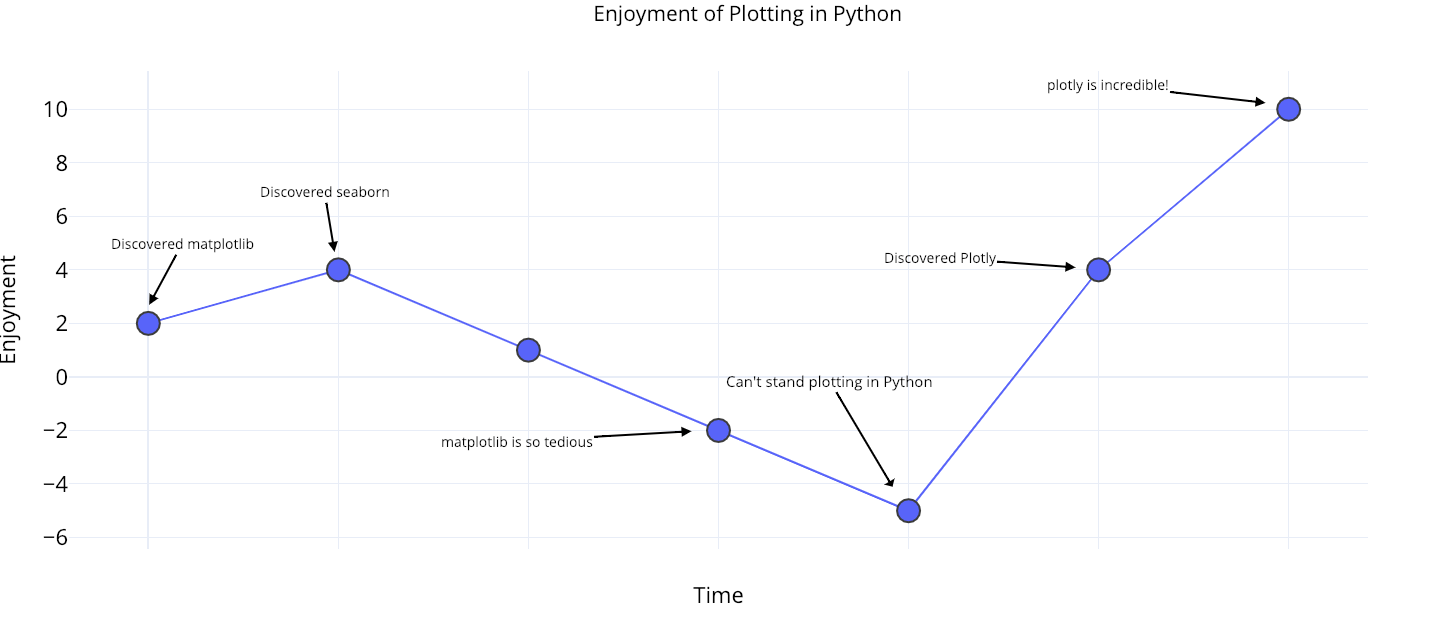
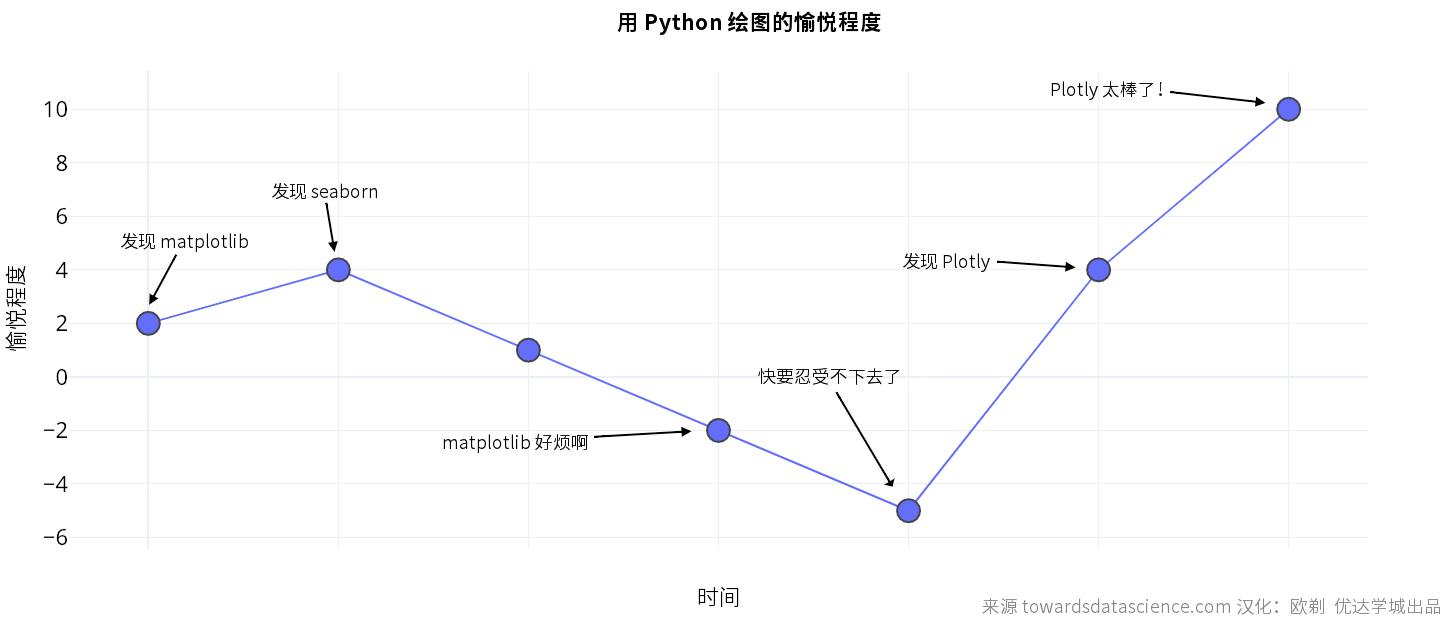
edit draft

diff --git a/_drafts/the-next-level-of-data-visualization-in-python.md b/_drafts/the-next-level-of-data-visualization-in-python.md
@@ -11,15 +11,9 @@ from: https://towardsdatascience.com/the-next-level-of-data-visualization-in-pyt
 []
 图片来源：pexels.com
 
-The sunk-cost fallacy is one of many [harmful cognitive biases](https://en.wikipedia.org/wiki/Thinking,_Fast_and_Slow#Heuristics_and_biases) to which humans fall prey. It refers to our tendency to continue to devote time and resources to a lost cause because we have already spent — sunk — so much time in the pursuit. The sunk-cost fallacy applies to staying in bad jobs longer than we should, slaving away at a project even when it’s clear it won’t work, and yes, continuing to use a tedious, outdated plotting library — matplotlib — when more efficient, interactive, and better-looking alternatives exist.
-
 “沉没成本谬误”是人们常犯的几种认知偏差之一。它指的是人们倾向于继续把时间和金钱投入一件已经注定要失败的事情，只因为他们在这件事上已经投入了（“沉没”）太多的成本。沉没成本谬误同样适用于在不好的职位上待了比正常更长的时间，在一个明显不可能的项目上埋头苦干，以及（你猜的没错）继续用一个陈旧、枯燥的绘图库——matplotlib——即使当更高效、更美观、可互动性更好的替代品已经出现的时候。
 
-Over the past few months, I’ve realized the only reason I use `matplotlib` is the hundreds of hours I’ve sunk into learning the convoluted syntax. This complication leads to hours of frustration on StackOverflow figuring out how to *format dates* or *add a second y-axis*. Fortunately, this is a great time for Python plotting, and after exploring the options, a clear winner — in terms of ease-of-use, documentation, and functionality — is the [plotly Python library](https://plot.ly/python/). In this article, we’ll dive right into `plotly`, learning how to make better plots in less time — often with one line of code.
-
 在过去的几个月里，我意识到我还守着 `matplotlib` 的唯一原因，不过就是因为我已经“沉没"在里面的几百个小时的时间成本——这都是为了学会它那复杂的语法。这也导致我花费了不知多少个深夜，在 StackOverflow 上搜索如何**格式化日期**或**增加第二个Y轴**。幸运的是，随着数据分析技术的不断进步和开源软件的不断发展，如今我们有了更多更好的选择。纵观这些选项，很容易就能发现一款易于使用、文档健全、功能强大的开源 Python 绘图库—— [Plotly](https://plot.ly/python/)。在今天的文章里，请跟我们一起深入体验 `plotly`，了解它如何用超简单的（甚至只要一行！）代码，绘制出更棒的图表。
-
-All of the code for this article is [available on GitHub](https://github.com/WillKoehrsen/Data-Analysis/blob/master/plotly/Plotly%20Whirlwind%20Introduction.ipynb). The charts are all interactive and can be viewed on **NBViewer**.
 
 本文中所有代码都已经在 Github 上开源，所有的图表都是可交互的，请使用**NBViewer**查看 。
 
@@ -28,18 +22,11 @@ Github 源代码地址： https://github.com/WillKoehrsen/Data-Analysis/blob/mas
 []
 plotly 绘制的范例图表。图片来源：plot.ly
 
-## Plotly Brief Overview
 ## Plotly 概述
-
-The `plotly` Python package is an open-source library built on **plotly.js** which in turn is built on **d3.js**. We’ll be using a wrapper on plotly called `cufflinks` designed to work with Pandas dataframes. So, our entire stack is cufflinks > plotly > plotly.js > d3.js which means we get the efficiency of coding in Python with the incredible interactive graphics capabilities of d3.
 
 `plotly` 的 Python 软件包是一个开源的代码库，它基于 **plot.js**，而后者基于 **d3.js**。我们实际使用的则是一个对 plotly 进行封装的库，名叫 `cufflinks`，它能让你更方便地使用 plotly 和 Pandas 数据表协同工作。
 
-(Plotly itself is a graphics company with several products and open-source tools. The Python library is free to use, and we can make unlimited charts in offline mode plus up to 25 charts in online mode to share with the world.)
-
 （注：Plotly 本身是一个拥有多个不同产品和开源工具集的可视化技术公司。Plotly 的 Python 库是可以免费使用的，在离线模式可以创建数量不限的图表，在线模式因为用到了 Plotly 的共享服务，只能生成并分享 25 张图表。）
-
-All the work in this article was done in a Jupyter Notebook with **plotly + cufflinks** running in offline mode. After installing plotly and cufflinks with `pip install cufflinks plotly` import the following to run in Jupyter:
 
 本文中的所有可视化图表都是在 Jupyter Notebook 中使用离线模式的 plotly + cufflinks 库完成的。在使用  `pip install cufflinks plotly`  完成安装后，你可以用下面这样的代码在 Jupyter 里完成导入：
 
@@ -54,10 +41,7 @@ cufflinks.go_offline(connected=True)
 init_notebook_mode(connected=True)
 ```
 
-## Single Variable Distributions: Histograms and Boxplots
 ## 单变量分布：柱状图和箱形图
-
-Single variable — univariate — plots are a standard way to start an analysis and the histogram is a go-to plot (although it has some issues) for graphing a distribution. Here, using my Medium article statistics (you can see how to get your own stats here or use mine [here](https://github.com/WillKoehrsen/Data-Analysis/tree/master/medium)) let’s make an interactive histogram of the number of claps for articles ( `df` is a standard Pandas dataframe):
 
 单变量分析图往往是开始数据分析时的标准做法，而柱状图基本上算是单变量分布分析时必备的图表之一（虽然它还有一些不足）。
 
@@ -73,11 +57,7 @@ df['claps'].iplot(kind='hist',
 []
 使用 plotly+cufflinks 创建的交互式柱状图
 
-For those used to `matplotlib`, all we have to do is add one more letter ( `iplot` instead of `plot`) and we get a much better-looking and interactive chart! We can click on the data to get more details, zoom into sections of the plot, and as we’ll see later, select different categories to highlight.
-
 对于已经习惯 `matplotlib` 的同学，你们只需要多打一个字母（把 `.plot` 改成 `.iplot` ），就能获得看起来更加美观的交互式图表！点击图片上的元素就能显示出详细信息、随意缩放，还带有（我们接下来会提到的）高亮筛选某些部分等超棒功能。
-
-If we want to plot overlaid histograms, that’s just as simple:
 
 如果你想绘制堆叠柱状图，也只需要这样：
 
@@ -93,12 +73,10 @@ df[['time_started', 'time_published']].iplot(
 
 []
 
-With a little bit of `pandas` manipulation, we can do a barplot:
-
 对 `pandas` 数据表进行简单的处理，并生成条形图：
 
 ```python
-# Resample to monthly frequency and plot 
+# 按照月份进行重采样，再绘图 
 df2 = df[['view','reads','published_date']].\
          set_index('published_date').\
          resample('M').mean()
@@ -108,9 +86,7 @@ df2.iplot(kind='bar', xTitle='Date', yTitle='Average',
 
 []
 
-as we saw, **we can combine the power of pandas with plotly + cufflinks**. For a boxplot of the fans per story by publication, we use a `pivot` and then plot:
-
-就像上面展示的那样，**我们可以将 plotly + cufflinks 和 pandas 的能力整合在一起**。比如，我们可以先用 `pivot` 进行数据透视表分析，然后再生成条形图。
+就像上面展示的那样，**我们可以将 plotly + cufflinks 和 pandas 的能力整合在一起**。比如，我们可以先用 `.pivot()` 进行数据透视表分析，然后再生成条形图。
 
 比如统计不同发表渠道中，每篇文章带来的新增粉丝数：
 
@@ -123,21 +99,13 @@ df.pivot(columns='publication', values='fans').iplot(
 
 []
 
-The benefits of interactivity are that we can explore and subset the data as we like. There’s a lot of information in a boxplot, and without the ability to see the numbers, we’ll miss most of it!
-
 交互式图表带来的好处是，我们可以随意探索数据、拆分子项进行分析。箱型图能提供大量的信息，但如果你看不到具体数值，你很可能会错过其中的一大部分！
 
-## Scatterplots
 ## 散点图
-
-The scatterplot is the heart of most analyses. It allows us to see the evolution of a variable over time or the relationship between two (or more) variables.
 
 散点图是大多数分析的核心内容，它能让我们看出一个变量随着时间推移的变化情况，或是两个（或多个）变量之间的关系变化情况。
 
-### Time-Series
 ### 时间序列分析
-
-A considerable portion of real-world data has a time element. Luckily, plotly + cufflinks was designed with time-series visualizations in mind. Let’s make a dataframe of my TDS articles and look at how the trends have changed.
 
 在现实世界中，相当部分的数据都带有时间元素。幸运的是，plotly + cufflinks 天生就带有支持时间序列可视化分析的功能。
 
@@ -164,20 +132,13 @@ tds[['fans', 'word_count', 'title']].iplot(
 
 []
 
-Here we are doing quite a few different things all in one line:
-
 在上图中，我们用一行代码完成了几件事情：
 
-* Getting a nicely formatted time-series x-axis automatically
 * 自动生成美观的时间序列 X 轴
-* Adding a secondary y-axis because our variables have different ranges
 * 增加第二条 Y 轴，因为两个变量的范围并不一致
-* Adding in the title of the articles as hover information
 * 把文章标题放在鼠标悬停时显示的标签中
   
-For more information, we can also add in text annotations quite easily:
-
-如果想要更多数据，可以简单地添加文本注释：
+为了显示更多数据，我们可以方便地添加文本注释：
 
 ```python
 tds_monthly_totals.iplot(
@@ -191,10 +152,8 @@ tds_monthly_totals.iplot(
 ```
 
 []
-Scatterplot with annotations
 带有文本注释的散点图
 
-For a two-variable scatter plot colored by a third categorical variable we use:
 下面的代码中，我们将一个双变量散点图按第三个分类变量进行着色：
 
 ```python
@@ -210,9 +169,7 @@ df.iplot(
 
 []
 
-Let’s get a little more sophisticated by using a log axis — specified as a plotly layout — (see the [Plotly documentation](https://plot.ly/python/reference/) for the layout specifics) and sizing the bubbles by a numeric variable:
-
-接下来我们要玩点复杂的：对数坐标轴。我们通过指定 plotly 的布局（layout）参数来实现这一点（关于不同的布局，请参考官方文档 https://plot.ly/python/reference/ ），同时我们把点的 size 和一个数值变量 `read_ratio` （阅读比例）绑定，比例越大，泡泡的尺寸也越大。
+接下来我们要玩点复杂的：对数坐标轴。我们通过指定 plotly 的布局（layout）参数来实现这一点（关于不同的布局，请参考官方文档 https://plot.ly/python/reference/ ），同时我们把点的尺寸（size参数）和一个数值变量 `read_ratio` （阅读比例）绑定，数字悦达，泡泡的尺寸也越大。
 
 ```python
 tds.iplot(
@@ -230,13 +187,9 @@ tds.iplot(
 
 []
 
-With a little more work (see notebook for details), we can even put four variables ([this is not advised](https://serialmentor.com/dataviz/aesthetic-mapping.html)) on one graph!
-
-如果想要更复杂一些（详见我放在 Github 的源代码），我们甚至可以在一张图里塞进 4 个变量！（并不推荐你们这么做）
+如果想要更复杂一些（详见我放在 Github 的源代码），我们甚至可以在一张图里塞进 4 个变量！（然而并不推荐你们真的这么搞）
 
 []
-
-As before, we can combine pandas with plotly+cufflinks for useful plots:
 
 和前面一样，我们可以将 pandas 和 plotly+cufflinks 结合起来，实现许多有用的图表：
 
@@ -256,20 +209,13 @@ df.pivot_table(
 
 []
 
-See the notebook or the documentation for more examples of added functionality. We can add in text annotations, reference lines, and best-fit lines to our plots with a single line of code, and still with all the interaction.
-
 建议你查看官方文档，或者我的源代码，里面有更多的范例和函数实例。只需要简单的一两行代码，就可以为你的图表加上文字注释，辅助线，最佳拟合线等有用的元素，并且保持原有的各种交互式功能。
 
-## Advanced Plots
 ## 高级绘图功能
-Now we’ll get into a few plots that you probably won’t use all that often, but which can be quite impressive. We’ll use the plotly `figure_factory`, to keep even these incredible plots to one line.
 
 接下来，我们要详细介绍几种特殊的图表，平时你可能并不会很经常用到它们，但我保证只要你用好了它们，一定能让人刮目相看。我们要用到 plotly 的 `figure_factory` 模块，只需要一行代码，就能生成超棒的图表！ 
 
-### Scatter Matrix
 ### 散点图矩阵
-
-When we want to explore relationships among many variables, a scattermatrix (also called a **splom**) is a great option:
 
 假如我们要探索许多不同变量之间的关系，散点图矩阵（也被称为SPLOM）就是个很棒的选择：
 
@@ -284,14 +230,10 @@ figure = ff.create_scatterplotmatrix(
 
 []
 
-Even this plot is completely interactive allowing us to explore the data.
-
 即使是这样复杂的图形，也是完全可交互的，让我们能更详尽地对数据进行探索。
 
-### Correlation Heatmap
 ### 关系热图
 
-To visualize the correlations between numeric variables, we calculate the correlations and then make an annotated heatmap:
 为了体现多个数值变量间的关系，我们可以计算它们的相关性，然后用带标注热度图的形式进行可视化：
 
 ```python
@@ -308,52 +250,50 @@ figure = ff.create_annotated_heatmap(
 
 ### 自定义主题
 
-The list of plots goes on and on. Cufflinks also has several themes we can use to get completely different styling with no effort. For example, below we have a ratio plot in the “space” theme and a spread plot in “ggplot”:
-
 除了层出不穷的各种图表外，Cufflinks 还提供了许多不同的着色主题，方便你轻松切换各种不同的图表风格。下面两张图分别是“太空”主题和“ggplot”主题：
 
 [] []
 
-We also get 3D plots (surface and bubble):
 此外，还有 3D 图表（曲面和泡泡）：
 
 [] []
 
-For those who are so inclined, you can even make a pie chart:
-对有
+对有兴趣研究的用户来说，做张饼图也不是什么难事：
 
 []
 
-### Editing in Plotly Chart Studio
+### 在 Plotly 图表工坊（Plotly Chart Studio）里编辑
 
-When you make these plots in the notebook, you’ll notice a small link on the lower right-hand side on the graph that says “Export to plot.ly”. If you click that link, you are then taken to the [chart studio](https://plot.ly/create/) where you can touch up your plot for a final presentation. You can add annotations, specify the colors, and generally clean everything up for a great figure. Then, you can publish your figure online so anyone can find it with the link.
+当你在 Jupyter Notebook 里生成了这些图表之后，你将会发现图表的右下角出现了一个小小的链接，写着“Export to plot.ly（发布到 plot.ly）”。如果你点击这个链接，你将会跳转到一个“图表工坊”（https://plot.ly/create/）。在这里，你可以在最终展示之前，进一步修改和润色你的图表。你可以添加标注，选择某些元素的颜色，把一切都整理清楚，生成一个超棒的图表。之后，你可以将它发布到网络上，生成一个供其他人查阅的链接。
 
-Below are two charts I touched up in Chart Studio:
-
-[]
+下面两张图是我在图表工坊里制作的：
 
 []
 
-With everything mentioned here, we are still not exploring the full capabilities of the library! I’d encourage you to check out both the plotly and the cufflinks documentation for more incredible graphics.
+[]
+
+讲了这么多，想必大家都看累了吧？然而我们还并没有穷尽这个库的所有功能呢！限于篇幅，有些更棒的图表和范例，只好请大家访问 plotly 和 cufflinks 的官方文档去一一查看咯！
 
 []
-Plotly interactive graphics of wind farms in United States (Source)
+Plotly 交互式地图，显示了美国国内的风力发电场数据。来源：plot.ly
 
-## Conclusions
-The worst part about the sunk cost fallacy is you only realize how much time you’ve wasted after you’ve quit the endeavor. Fortunately, now that I’ve made the mistake of sticking with `matploblib` for too long, you don’t have to!
+## 结语
 
-When thinking about plotting libraries, there are a few things we want:
+关于沉没成本谬误，最糟糕的一点在于，人们往往只能在放弃之前的努力时，才能意识到自己浪费了多少时间。幸运的是，虽然我现在已经铸成大错，在 `matploblib` 上浪费了太多的时间，但你大可不必重蹈我的覆辙！
 
-1. One-line charts for rapid exploration
-2. Interactive elements for subsetting/investigating data
-3. Option to dig into details as needed
-4. Easy customization for final presentation
 
-As of right now, the best option for doing all of these in Python is **plotly**. Plotly allows us to make visualizations quickly and helps us get better insight into our data through interactivity. Also, let’s admit it, plotting should be one of the most enjoyable parts of data science! With other libraries, plotting turned into a tedious task, but with plotly, there is again joy in making a great figure!
+在选择一款绘图库的时候，你最需要的几个功能有：
+
+1. 快速探索数据所需的一行代码图表
+2. 拆分/研究数据所需的交互式元素
+3. 当需要时可以深入细节信息的选项
+4. 最终展示前能轻易进行定制
+
+从现在看来，要用 Python 语言实现以上功能的最佳选择非 **plotly** 莫属。它让我们快速生成可视化图表，交互功能使我们更好地理解信息。我承认，绘图绝对是数据科学工作中最让人享受的部分，而 plotly 能让你更加愉悦地完成这些任务！
 
 []
-A plot of my enjoyment with plotting in Python over time
+用一张图表显示一下用 Python 绘图的愉悦程度随着时间变化。
 
-Now that it’s 2019, it is time to upgrade your Python plotting library for better efficiency, functionality, and aesthetics in your data science visualizations.
+现在，2019年行将结束，赶快升级一下你的 Python 绘图库，让自己在数据科学和可视化方面变得更快、更强、更美吧！
 
 > _（本文已投稿给「[优达学城](https://cn.udacity.com)」。 原作： [{{ page.author }}]({{ page.from }}) 编译：欧剃 转载请保留此信息）_
